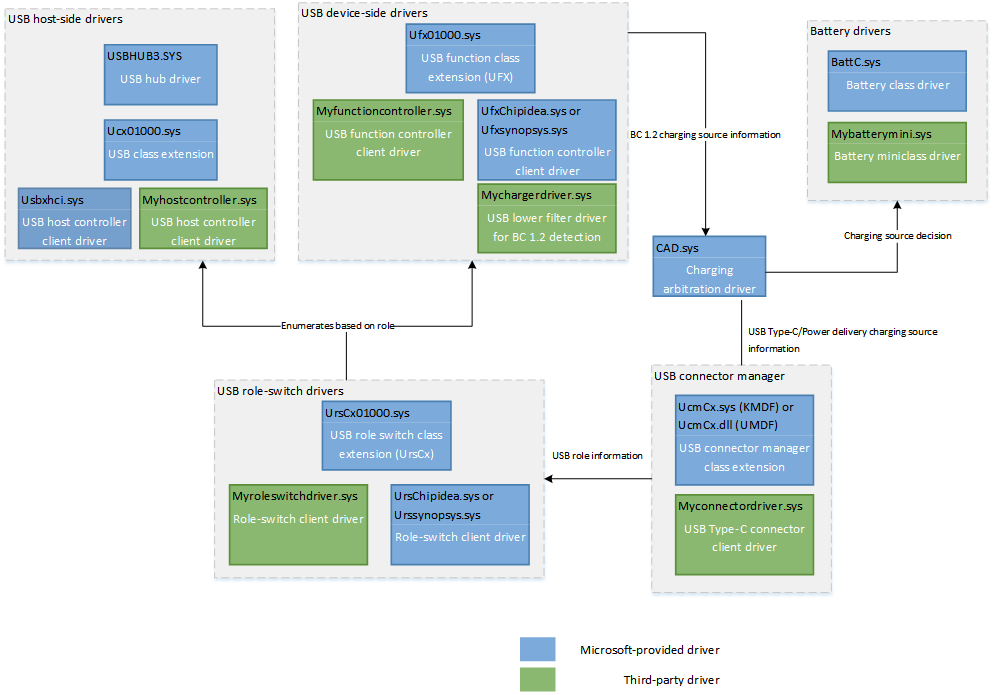
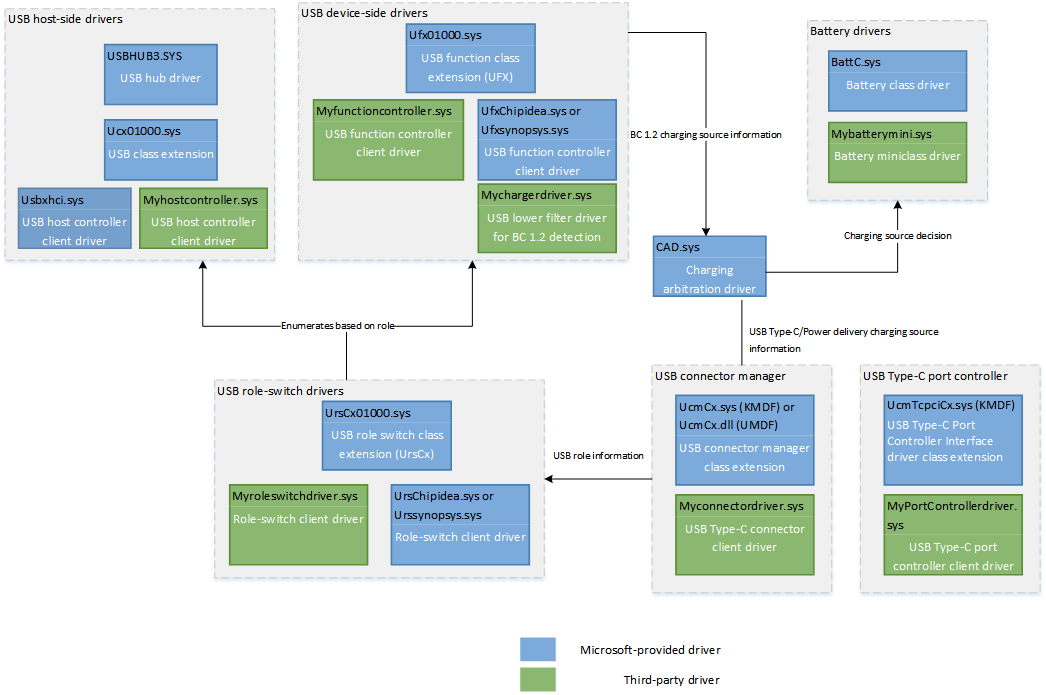
Added content for USB TCPCI

diff --git a/windows-driver-docs-pr/usbcon/oem-tasks-for-bringing-up-a-usb-typec.md b/windows-driver-docs-pr/usbcon/oem-tasks-for-bringing-up-a-usb-typec.md
@@ -27,7 +27,7 @@ ms.technology: windows-devices
 
 -   USB Type-C feature support in Windows
 -   [FAQ: USB Type-C connector on a Windows system](faq--usb-type-c-connector-on-a-windows-system.md)
--   [Troubleshoot messages in UI](introduction-to-usb-type-c-connectors.md)
+-   [Troubleshoot messages in UI](http://go.microsoft.com/fwlink/?LinkId=526894)
 
 Describes Windows support for USB Type-C connector and tasks for OEMs who are building USB Type-C systems, including how to write drivers that manage different features of the connector.
 
@@ -67,21 +67,33 @@ The USB Type-C connector, introduced by the USB-IF, defined in the USB 3.1 speci
 </tr>
 <tr class="odd">
 <td><img src="images/drivers-c.png" alt="Drivers" /></td>
-<td><ul>
-<li><p>For a system that has an embedded controller, implement the USB Type-C Connector System Software Interface (UCSI) in the EC and BIOS, and load the Microsoft provided in-box driver, UcmUcsi.sys, that implements UCSI Specification.</p>
-<p>[UCSI driver](ucsi.md)</p></li>
-<li><p>Otherwise, implement a driver that communicates with the connector and keeps the operating system informed about USB Type-C events on the connector.</p>
-<p>[Developing Windows drivers for USB Type-C connectors](developing-windows-drivers-for-usb-type-c-connectors.md)</p>
-<p>[Write a USB Type-C connector driver](bring-up-a-usb-type-c-connector-on-a-windows-system.md)</p>
-<p>[UCmCx client driver programming reference](https://msdn.microsoft.com/library/windows/hardware/mt188011)</p></li>
-</ul></td>
+<td>
+Use this flow chart to determine a solution for your USB Type-C system. 
+
+-   For a system that implements a PD state machine, implement a client driver to the UcmCx class extension.
+
+    [Write a USB Type-C connector driver](bring-up-a-usb-type-c-connector-on-a-windows-system.md)
+
+    [UCmCx client driver programming reference](https://msdn.microsoft.com/library/windows/hardware/mt188011)
+
+-   For a system that does not implement a PD state machine, implement a client driver to the UcmTcpciCx class extension. 
+
+    [Write a USB Type-C port controller driver](write-a-usb-type-c-port-controller-driver.md)
+
+    [USB Type-C Port Controller Interface driver class extensions reference](https://msdn.microsoft.com/en-us/library/windows/hardware/mt805826)
+
+-   For a system that has PD state machine and supports USB Type-C Connector System Software Interface (UCSI) over ACPI, load the Microsoft provided in-box driver, UcmUcsi.sys. (See [UCSI driver](ucsi.md)). 
+
+    If the system supports UCSI over another transport such as PCI, implement a UCSI-compliant client driver to the UcmCx class extension. Modify [this sample](https://github.com/Microsoft/Windows-driver-samples/tree/master/usb/UcmCxUcsi) and replace ACPI portions with your implementation for another transport.
+
+</td>
 </tr>
 <tr class="even">
 <td><img src="images/bringup-c3.png" alt="Bringup" /></td>
 <td><ol>
 <li>If you are building is a mobile device (such as a phone) modify system ACPI to indicate to the Microsoft in-box function controller driver that the connector is a USB Type-C connector.</li>
 <li>If you are building a dual-role mobile device, modify system ACPI to enable the Microsoft in-box USB role-switch driver.</li>
-<li>Bringing up the connector driver depends on the driver that you choose for the connector, Microsoft in-box driver, UCSI (UcmUcsi.sys) or a custom driver.
+<li>Bringing up the connector driver depends on the driver that you choose for the connector, Microsoft in-box driver - UCSI (UcmUcsi.sys), a client driver to UcmCx or UcmTcpciCx. For more information, see the links in the precedeing section. 
 <ul>
 <li>If you are using UCSI, follow the instructions given in [Intel BIOS Implementation of UCSI](http://go.microsoft.com/fwlink/p/?LinkId=760658) to load the driver.</li>
 <li>If you are using a custom driver, load the driver by using the connector driver installation package.</li>

diff --git a/windows-driver-docs-pr/usbcon/architecture--usb-type-c-in-a-windows-system.md b/windows-driver-docs-pr/usbcon/architecture--usb-type-c-in-a-windows-system.md
@@ -66,6 +66,12 @@ In the preceding image,
 
     If you are writing a driver, the USB connector manager class extension follows the WDF class extension-client driver model. Your client driver communicates with the hardware and the class extension to handle tasks such as CC detection, PD messaging, Muxing, and VBus/VConn control, and select policy for power delivery and alternate mode. The class extension communicates the information reported by the client driver to the operating system. For example, the CC detection result is used to configure the role-switch drivers; USB Type-C/PD power information is used to determine the level at which the system should charge. The client driver manages USB Type-C and PD state machines. The client driver can delegate some tasks to other drivers, for example, Mux may be controlled by another driver. To write the client driver, use the [USB Type-C connector driver programming interfaces.](https://msdn.microsoft.com/library/windows/hardware/mt188011).
 
+    **USB Type-C port controller**
+
+    The Type-C Port Controller Interface Class Extension (UcmTcpciCx.sys) communicates with Device Policy Manager (DPM), a system component that implements Type-C PD state machine. A client driver to that class extension is a port controller that needs to the keep class extension informed about the hardware events. These drivers are used for a system that does not have the capability of handling the power delivery (PD) state machine.
+
+    For information about writing the client driver, see [Write a USB Type-C port controller driver](write-a-usb-type-c-port-controller-driver.md).
+
 -   **Charging arbitration driver**
 
     This driver is provided by Microsoft for Windows 10 Mobile. The driver acts as the arbiter for multiple charging sources. The USB connector manager reports USB Type-C and PD charging source information to CAD, which makes a selection from that information and BC1.2 charger detection performed by the USB device-side drivers (if applicable). CAD then reports the most appropriate charging source to use to the battery subsystem.

diff --git a/windows-driver-docs-pr/usbcon/faq--usb-type-c-connector-on-a-windows-system.md b/windows-driver-docs-pr/usbcon/faq--usb-type-c-connector-on-a-windows-system.md
@@ -126,7 +126,7 @@ To test your implementation, follow the guidelines given in [USB Type-C manual i
 ## <a href="" id="what-is-the-exact-condition-and-ui-for-the-different-errors-"></a>What is the exact condition and UI for the different errors?
 
 
-Windows 10 can show a set of USB Type-C error messages to help educate users about the limitations with different combinations of USB Type-C hardware and software. For example, the user might get "Device is charging slowly" message if the charger connected to the USB Type-C connector is not powerful enough, not compatible with the system, or is connected to a non-charging port. For more information, see [Troubleshoot messages for a USB Type-C Windows system](introduction-to-usb-type-c-connectors.md).
+Windows 10 can show a set of USB Type-C error messages to help educate users about the limitations with different combinations of USB Type-C hardware and software. For example, the user might get "Device is charging slowly" message if the charger connected to the USB Type-C connector is not powerful enough, not compatible with the system, or is connected to a non-charging port. For more information, see [Troubleshoot messages for a USB Type-C Windows system](http://go.microsoft.com/fwlink/?LinkId=526894).
 
 ## <a href="" id="what-happens-when-a-non-pd-port-is-connected-to-pd-provider-----conversely--what-happens-when-a-pd-consumer-is-connected-to-a-system-that-is-not-a-pd-provider-----"></a>What happens when a non-PD port is connected to PD provider? Conversely, what happens when a PD consumer is connected to a system that is not a PD provider?
 

diff --git a/windows-driver-docs-pr/usbcon/bring-up-a-usb-type-c-connector-on-a-windows-system.md b/windows-driver-docs-pr/usbcon/bring-up-a-usb-type-c-connector-on-a-windows-system.md
@@ -11,6 +11,11 @@ ms.technology: windows-devices
 
 # Write a USB Type-C connector driver
 
+You need to write a USB Type-C connector driver in these scenarios:
+
+-   If your USB Type-C hardware has the capability of handling the power delivery (PD) state machine. Otherwise, consider writing a USB Type-C port controller driver. For more information, see [Write a USB Type-C port controller driver](write-a-usb-type-c-port-controller-driver.md).
+
+-   If your hardware is UCSI-compliant over a transport other than ACPI. Otherwise, load the load the Microsoft provided in-box driver, UcmUcsi.sys. (See [UCSI driver](ucsi.md)). 
 
 **Summary**
 

diff --git a/windows-driver-docs-pr/usbcon/developing-windows-drivers-for-usb-type-c-connectors.md b/windows-driver-docs-pr/usbcon/developing-windows-drivers-for-usb-type-c-connectors.md
@@ -29,7 +29,7 @@ ms.technology: windows-devices
 
 -   [UCmCx client driver programming reference](https://msdn.microsoft.com/library/windows/hardware/mt188011)
 
-You need to write a driver for the connector if your USB Type-C system does not include an embedded controller, otherwise you can load the Microsoft-provided [UCSI driver](ucsi.md).
+You need to write a driver for the connector if your USB Type-C system does not implement PD state machine or it implements state machine but does not support UCSI over non-ACPI transport. If it does, you can load the Microsoft-provided [UCSI driver](ucsi.md).
 
 ![drivers](images/drivers-c.png)
 
